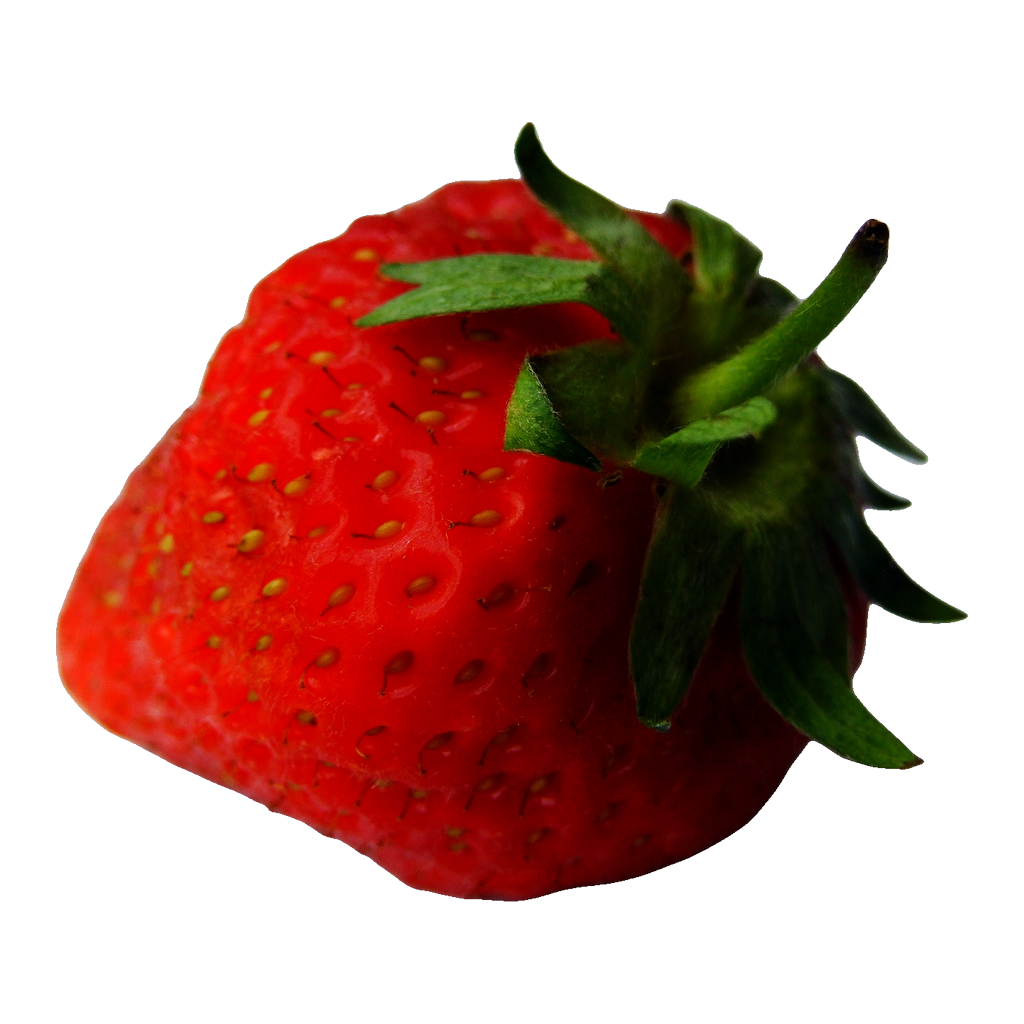
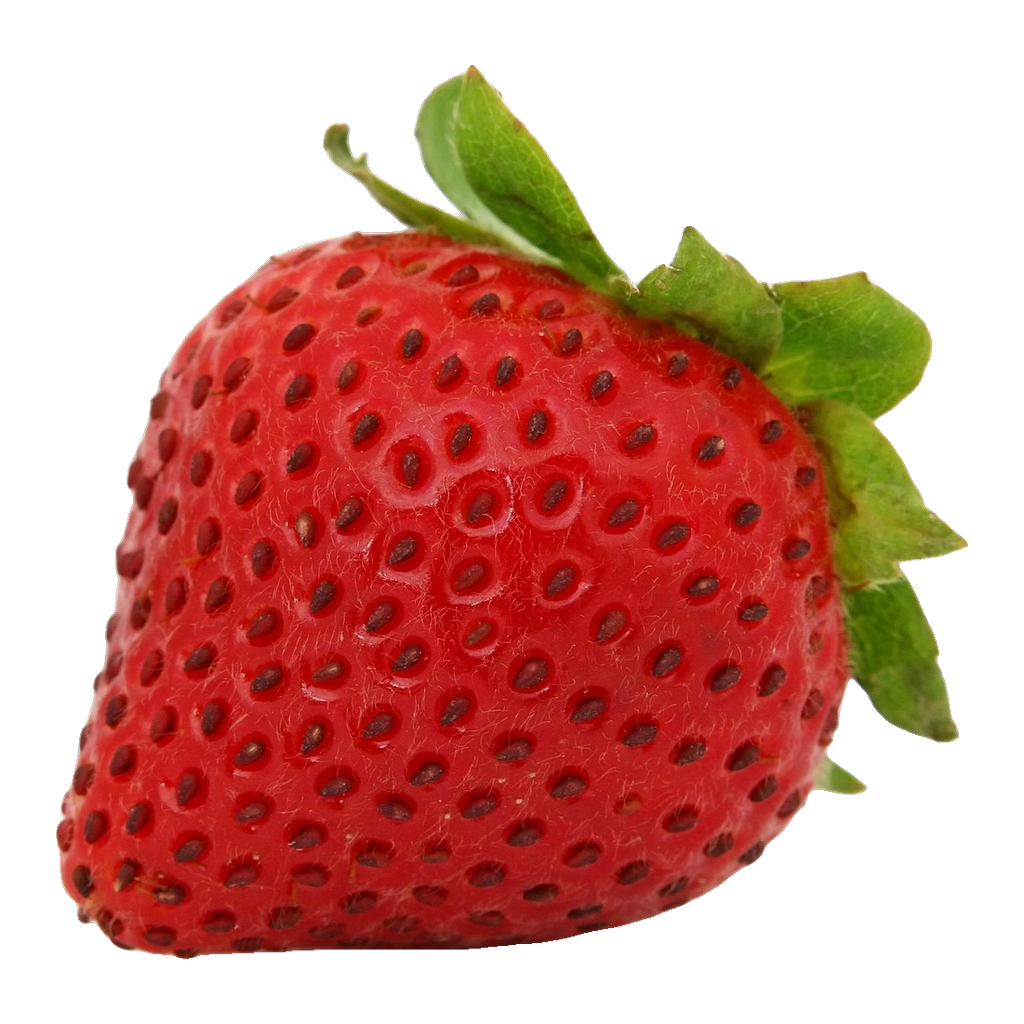
Today's Path map fills the whole screen behind the top bar; equal stop badges; new Pixabay mandarin, strawberry, watermelon and spaghetti photos with credits; version 2.0.12 (26)

diff --git a/lib/features/child_home/daily_path_view.dart b/lib/features/child_home/daily_path_view.dart
@@ -9,7 +9,12 @@ import 'home_screen.dart' show gameIcon;
 
 class DailyPathView extends StatelessWidget {
   final AppState state;
-  const DailyPathView({super.key, required this.state});
+
+  /// The home screen paints the map behind the whole screen itself.
+  final bool background;
+  const DailyPathView({super.key, required this.state, this.background = true});
+
+  static const mapAsset = 'assets/illustrations/path/map_background.jpg';
 
   @override
   Widget build(BuildContext context) {
@@ -29,9 +34,9 @@ class DailyPathView extends StatelessWidget {
     // A small adventure map: the day's games are stops on a winding road
     // across a sunny meadow, with the sticker waiting at the end.
     return Padding(
-      padding: const EdgeInsets.fromLTRB(16, 0, 16, 12),
+      padding: EdgeInsets.fromLTRB(16, 0, 16, background ? 12 : 0),
       child: ClipRRect(
-        borderRadius: BorderRadius.circular(SegRadius.xl),
+        borderRadius: BorderRadius.circular(background ? SegRadius.xl : 0),
         child: LayoutBuilder(
           builder: (context, box) {
             final w = box.maxWidth, h = box.maxHeight;
@@ -47,14 +52,15 @@ class DailyPathView extends StatelessWidget {
             ];
             return Stack(
               children: [
-                Positioned.fill(
-                  child: Image.asset(
-                    'assets/illustrations/path/map_background.jpg',
-                    fit: BoxFit.cover,
-                    alignment: const Alignment(0, .15),
-                    excludeFromSemantics: true,
+                if (background)
+                  Positioned.fill(
+                    child: Image.asset(
+                      mapAsset,
+                      fit: BoxFit.cover,
+                      alignment: const Alignment(0, .15),
+                      excludeFromSemantics: true,
+                    ),
                   ),
-                ),
                 Positioned.fill(
                   child: CustomPaint(
                     painter: _RoadPainter(
@@ -272,23 +278,25 @@ class _StopState extends State<_Stop> with SingleTickerProviderStateMixin {
               return Stack(
                 clipBehavior: Clip.none,
                 children: [
-                  Container(
-                    decoration: BoxDecoration(
-                      color: Colors.white,
-                      shape: BoxShape.circle,
-                      border: Border.all(color: ring, width: size * .07),
-                      boxShadow: [
-                        BoxShadow(
-                          color:
-                              (widget.next ? SegColors.accent : SegColors.ink)
-                                  .withValues(alpha: widget.next ? .4 : .18),
-                          blurRadius: widget.next ? 16 : 8,
-                          offset: const Offset(0, 4),
-                        ),
-                      ],
+                  Positioned.fill(
+                    child: Container(
+                      decoration: BoxDecoration(
+                        color: Colors.white,
+                        shape: BoxShape.circle,
+                        border: Border.all(color: ring, width: size * .07),
+                        boxShadow: [
+                          BoxShadow(
+                            color:
+                                (widget.next ? SegColors.accent : SegColors.ink)
+                                    .withValues(alpha: widget.next ? .4 : .18),
+                            blurRadius: widget.next ? 16 : 8,
+                            offset: const Offset(0, 4),
+                          ),
+                        ],
+                      ),
+                      padding: EdgeInsets.all(size * .12),
+                      child: ItemVisual(hero),
                     ),
-                    padding: EdgeInsets.all(size * .12),
-                    child: ItemVisual(hero),
                   ),
                   // Step number flag.
                   Positioned(

diff --git a/lib/features/child_home/home_screen.dart b/lib/features/child_home/home_screen.dart
@@ -54,9 +54,23 @@ class _HomeScreenState extends State<HomeScreen> {
   @override
   Widget build(BuildContext context) {
     final l10n = scopedLocalizations(context, s.locale);
+    Widget backdrop({required Widget child}) => path
+        // Today's Path: the map is the whole screen, behind the top bar too.
+        ? Stack(
+            children: [
+              Positioned.fill(
+                child: Image.asset(
+                  DailyPathView.mapAsset,
+                  fit: BoxFit.cover,
+                  excludeFromSemantics: true,
+                ),
+              ),
+              child,
+            ],
+          )
+        : SceneBackdrop(clouds: false, child: child);
     return Scaffold(
-      body: SceneBackdrop(
-        clouds: false,
+      body: backdrop(
         child: SafeArea(
           child: Column(
             crossAxisAlignment: CrossAxisAlignment.start,
@@ -125,18 +139,19 @@ class _HomeScreenState extends State<HomeScreen> {
                   ],
                 ),
               ),
-              Padding(
-                padding: const EdgeInsets.symmetric(horizontal: SegSpace.s5),
-                child: Text(
-                  l10n.greeting(s.active?.nickname ?? ''),
-                  style: MediaQuery.sizeOf(context).height < 500
-                      ? SegText.heading
-                      : SegText.title,
+              if (!path)
+                Padding(
+                  padding: const EdgeInsets.symmetric(horizontal: SegSpace.s5),
+                  child: Text(
+                    l10n.greeting(s.active?.nickname ?? ''),
+                    style: MediaQuery.sizeOf(context).height < 500
+                        ? SegText.heading
+                        : SegText.title,
+                  ),
                 ),
-              ),
-              if (MediaQuery.sizeOf(context).height >= 500)
+              if (!path && MediaQuery.sizeOf(context).height >= 500)
                 const SizedBox(height: SegSpace.s2),
-              if (MediaQuery.sizeOf(context).height >= 500)
+              if (!path && MediaQuery.sizeOf(context).height >= 500)
                 Padding(
                   padding: const EdgeInsets.symmetric(horizontal: SegSpace.s5),
                   child: Text(
@@ -146,7 +161,7 @@ class _HomeScreenState extends State<HomeScreen> {
                 ),
               Expanded(
                 child: path
-                    ? DailyPathView(state: s)
+                    ? DailyPathView(state: s, background: false)
                     : HorizontalCards(
                         count: s.orderedThemes.length,
                         builder: (i) {

diff --git a/assets/content/REAL_PHOTOS.md b/assets/content/REAL_PHOTOS.md
@@ -154,12 +154,12 @@ Adapted PNG SHA-256: `bd6126f09422d7e986a78611bb1ae14ed469c5ee2ee32658c9e5c9280b
 ## produce.strawberry
 
 File: `assets/images/produce/strawberry_real.png`
-Photo author: Becks
-Source: https://commons.wikimedia.org/wiki/File:Strawberry_(3667745793).jpg
-Source and adaptation license: CC BY 2.0 ? https://creativecommons.org/licenses/by/2.0/
[2 lines of base64/hex data omitted]
-Changes: Single complete photographed red strawberry with intact green calyx. Foreground alpha generated with rembg U2Net from a downscaled segmentation input while retaining original RGB; alpha-bound crop, aspect-preserving Lanczos resize to a 912 px maximum subject extent, centered 1024x1024 RGBA export and 4 px white outer outline. No generative editing.
+Photo author: Shutterbug26 (Pixabay)
+Source: https://pixabay.com/photos/strawberry-berry-fruit-food-fresh-1238295/
+Source and adaptation license: Pixabay Content License - https://pixabay.com/service/license-summary/
[2 lines of base64/hex data omitted]
+Changes: One whole, bright red strawberry with its green calyx. Foreground alpha with rembg U2Net (largest region kept, holes filled, original RGB retained); alpha-bound crop, aspect-preserving Lanczos resize to a 912 px maximum subject extent, centered 1024x1024 RGBA export and 4 px white outer outline (tools/adapt_cutout_photo.py). No generative editing.
 
 ## produce.pomegranate
 
@@ -366,12 +366,12 @@ Attempt folder: `artifacts/food-photos-attempt-01/`. Local technical review only
 ## food.pasta
 
 File: `assets/images/food/pasta_real.png`
-Photo author: Leonhard Lenz
-Source: https://commons.wikimedia.org/wiki/File:Penne_on_plate_2025-02-12_02.jpg
-Source and adaptation license: CC0 1.0 ? https://creativecommons.org/publicdomain/zero/1.0/
[2 lines of base64/hex data omitted]
-Changes: Photographed heap of penne retained as a single subject. Foreground alpha generated with rembg U2Net from a downscaled segmentation input while retaining original RGB; neutral plate pixels in a small interior gap were masked manually. Alpha-bound crop, aspect-preserving Lanczos resize to a 912 px maximum subject extent, centered 1024x1024 RGBA export and 4 px white outer outline. No generative editing.
+Photo author: eismannhans (Pixabay)
+Source: https://pixabay.com/photos/spaghetti-meal-food-nourishment-53364/
+Source and adaptation license: Pixabay Content License - https://pixabay.com/service/license-summary/
[2 lines of base64/hex data omitted]
+Changes: One plate of spaghetti with tomato meat sauce and parsley, seen from above. Foreground alpha with rembg U2Net (largest region kept, holes filled, original RGB retained); alpha-bound crop, aspect-preserving Lanczos resize to a 912 px maximum subject extent, centered 1024x1024 RGBA export and 4 px white outer outline (tools/adapt_cutout_photo.py). No generative editing.
 
 ## food.pizza
 
@@ -421,23 +421,22 @@ Attempt folder: `artifacts/produce-photos-attempt-r32-01/`. Local technical revi
 ## produce.mandarin
 
 File: `assets/images/produce/mandarin_real.png`
-Photo author: Petr Kratochvil
-Source: https://commons.wikimedia.org/wiki/File:Clementine_orange.jpg
-Source and adaptation license: CC0 1.0 ? https://creativecommons.org/publicdomain/zero/1.0/
[2 lines of base64/hex data omitted]
-Changes: Single complete clementine with attached leaves. Foreground alpha generated with rembg U2Net from a downscaled 1800 px segmentation input while retaining original RGB; alpha-bound crop and aspect-preserving Lanczos resize to a 912 px maximum subject extent, centered 1024x1024 RGBA export and 4 px white outer outline. No generative editing.
+Photo author: PublicDomainPictures (Pixabay)
+Source: https://pixabay.com/photos/citrus-clementine-food-fresh-fruit-2393/
+Source and adaptation license: Pixabay Content License - https://pixabay.com/service/license-summary/
[2 lines of base64/hex data omitted]
+Changes: One whole clementine/mandarin with two green leaves on its stem. Foreground alpha with rembg U2Net (largest region kept, holes filled, original RGB retained); alpha-bound crop, aspect-preserving Lanczos resize to a 912 px maximum subject extent, centered 1024x1024 RGBA export and 4 px white outer outline (tools/adapt_cutout_photo.py). No generative editing.
 
 ## produce.watermelon
 
 File: `assets/images/produce/watermelon_1.png`
-Photo author: Stephen Audu
-Source: https://www.pexels.com/photo/slice-of-a-watermelon-6604314/
-Source and adaptation license: Pexels License ? https://www.pexels.com/license/
[2 lines of base64/hex data omitted]
-Changes: Single complete classic watermelon wedge with red flesh, dark seeds and green rind. Foreground alpha generated with rembg U2Net from a downscaled segmentation input while retaining original RGB; alpha-bound crop, aspect-preserving Lanczos resize to a 912 px maximum subject extent, centered 1024x1024 RGBA export and 4 px white outer outline. No generative editing.
-
+Photo author: segobou (Pixabay)
+Source: https://pixabay.com/photos/watermelon-summer-sweet-berrie-1504404/
+Source and adaptation license: Pixabay Content License - https://pixabay.com/service/license-summary/
[2 lines of base64/hex data omitted]
+Changes: One classic watermelon slice: red flesh, black seeds, green rind. Foreground alpha with rembg U2Net (largest region kept, holes filled, original RGB retained); alpha-bound crop, aspect-preserving Lanczos resize to a 912 px maximum subject extent, centered 1024x1024 RGBA export and 4 px white outer outline (tools/adapt_cutout_photo.py). No generative editing.
 
 ## produce.onion
 
